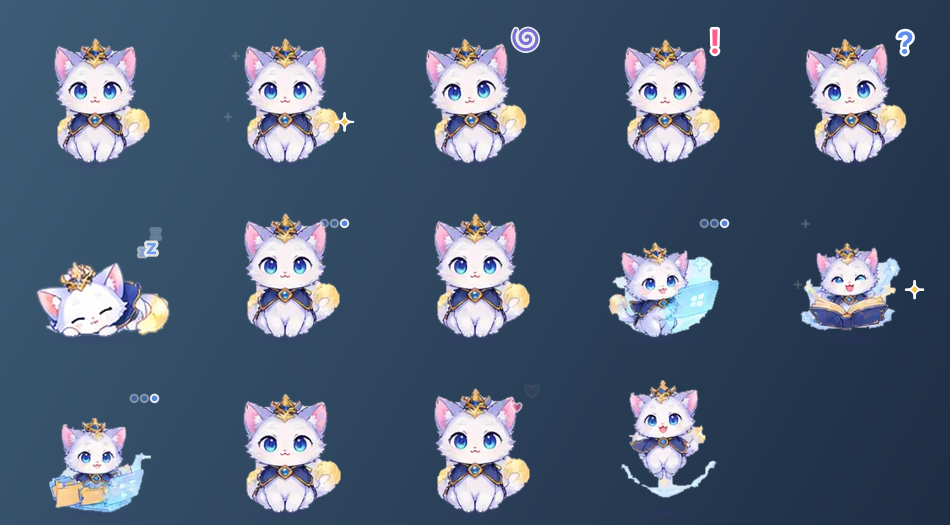
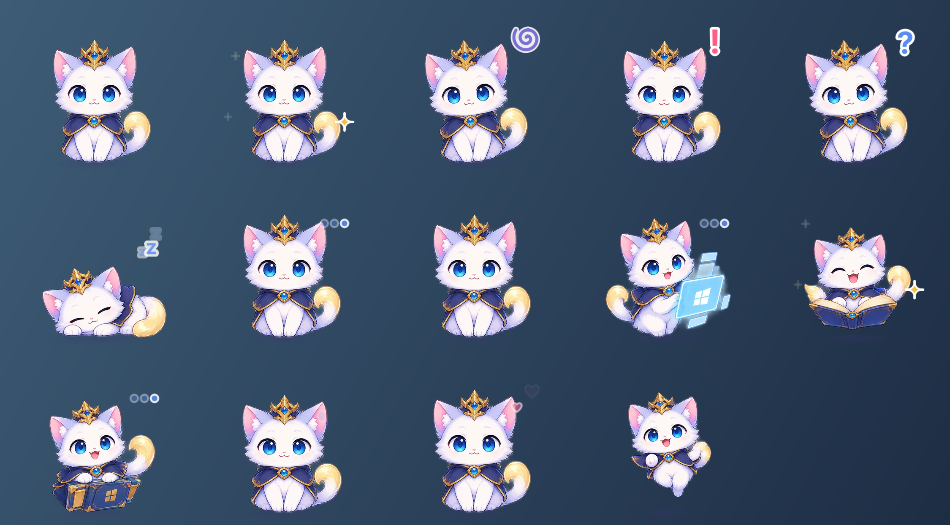
Pet: switch to the user's high-res transparent pose sheet
Six poses (front, files box, hologram search, book, sleep, float) are cut
from assets/source/pose_sheet_hd.webp. The alpha is already clean, so the
extractor no longer flood-fills backgrounds: it remaps faint alpha, drops
specks and downsizes premultiplied. Sprites are saved at 3x for sharper
HiDPI rendering; the tray icon crop is widened to keep the crown.

Claude-Session: https://claude.ai/code/session_01GCnosnBPPwFtEBANG6qMu6

diff --git a/tools/extract_sprites.py b/tools/extract_sprites.py
@@ -1,14 +1,11 @@
-"""사용자 스프라이트 시트(assets/source)에서 펫 프레임을 잘라 src/jonnyang/gui/sprites/에 저장한다.
+"""사용자 고해상도 자세 시트(assets/source/pose_sheet_hd.webp)에서 펫 그림을 잘라 src/jonnyang/gui/sprites/에 저장한다.
 
-- 표정마다 깨끗한 그림 한 장만 고른다(CELLS, POSES). 애니메이션 시트의 칸들은 다리가 빈 칸, 배경이 덜 지워진
-  칸이 섞여 있고 계속 넘기면 정신없어서, 움직임은 gui/sprite.py가 코드로 더한다.
-- animation_sheet.webp: 칸(격자) 하나 = 한 프레임. pose_sheet.webp: 자세가 흩어진 시트, 상자 좌표로 자른다
-  (알파 채널은 흐릿해서 흰 배경에 합성해서 쓴다).
-- 배경: 칸 테두리에서 시작해 배경색과 비슷한 픽셀을 채우기(flood fill)로 지운다. 고양이 외곽선이 경계가 된다.
-  자세 시트는 외곽선 바깥의 옅은 빛 번짐 띠를 몇 겹 벗긴다(peel). 가장자리는 1px 깎고 살짝 흐리게.
-- 프레임 번호 글자, 작은 얼룩은 버린다. 여러 칸을 쓰면 첫 프레임에 맞춰 위치를 맞춘다(덜덜 떨림 방지).
-- 모든 프레임은 같은 크기 캔버스(manifest.yaml의 frame)에, 발끝을 같은 높이(baseline)에 맞춰 놓는다.
-  2배 크기로 저장해서 고해상도 화면에서도 덜 뭉개지게 한다.
+- 시트 한 장에 자세 6개가 3x2로 놓여 있고 배경은 이미 투명하다(알파 채널). 칸마다 고양이 상자를 찾아 자른다.
+- 표정마다 그림 한 장만 쓴다. 움직임(숨쉬기·깡총·흔들기)과 효과(하트·반짝이·물음표)는 gui/sprite.py가 코드로 더한다.
+- 고양이 둘레의 아주 옅은 번짐(알파가 거의 0)은 지우고, 따로 떨어진 작은 얼룩도 버린다.
+- 모든 그림은 같은 크기 캔버스(manifest.yaml의 frame)에, 같은 배율로, 발끝을 같은 높이(baseline)에 맞춰 놓는다.
+  3배 크기로 저장해서 고해상도 화면에서도 선명하게 한다.
+- 예전 시트(animation_sheet.webp, pose_sheet.webp)와 concept_art.webp는 참고용 원본으로만 남겨 둔다.
 
 사용법: python tools/extract_sprites.py [--sheet 미리보기.png]
 필요: Pillow, numpy (개발용. 프로그램 실행에는 필요 없다)
@@ -23,68 +20,34 @@ from pathlib import Path
 
 import numpy as np
 import yaml
-from PIL import Image, ImageFilter
+from PIL import Image
 
 ROOT = Path(__file__).resolve().parents[1]
 SRC = ROOT / "assets" / "source"
 OUT = ROOT / "src" / "jonnyang" / "gui" / "sprites"
+SOURCE = "pose_sheet_hd.webp"
 
-OUT_SCALE = 2                    # 저장 배율 (화면 좌표 1 = 이미지 2px)
+OUT_SCALE = 3                    # 저장 배율 (화면 좌표 1 = 이미지 3px)
 FRAME_W, FRAME_H = 150, 130      # 화면 좌표 기준 캔버스
 BASELINE = 124                   # 발끝 높이
-BG_THRESHOLD = 14                # 배경색과의 최대 차이 (채널별)
-POSE_THRESHOLD = 24              # 자세 시트는 고양이 둘레에 옅은 빛 번짐이 있어서 더 넓게 지운다
-POSE_PEEL = 3                    # 자세 시트: 외곽선 바깥에 남는 옅은 띠를 몇 겹 벗길지
-PEEL_LIGHT = 200                 # 이보다 밝은(세 채널 모두) 가장자리 픽셀을 띠로 본다
+UNIT = 0.217                     # 시트 1px → 화면 좌표 (정면 자세 키가 약 96이 되게)
+ALPHA_LO, ALPHA_HI = 16, 240     # 알파를 이 구간으로 다시 펼친다 (LO 이하 번짐은 투명, HI 이상은 불투명)
+MIN_PART = 40                    # 이보다 작은 따로 떨어진 덩어리는 얼룩으로 보고 버린다
 
-# animation_sheet.webp 격자 (픽셀 좌표, 칸 테두리 선 위치)
-SHEET_COLS = [198, 345, 486, 625, 767, 907, 1049, 1191, 1333, 1527]
-SHEET_ROWS = [(9, 116), (127, 233), (242, 348), (357, 459), (467, 568), (578, 676), (685, 778), (786, 861),
-              (869, 936), (943, 1016)]
-# 표정마다 그림 한 장만 쓴다(프레임을 계속 바꾸면 정신없고, 다리가 빈 칸·배경이 덜 지워진 칸이 섞여 있었다).
-# 움직임(숨쉬기·깡총·흔들기)과 효과(하트·반짝이·물음표)는 코드(gui/sprite.py)가 더한다.
-# animation_sheet.webp에서 고르는 칸: 이름: (줄, 칸, 크기 보정)
-CELLS = {
-    "sleep": (3, 2, 1.0),       # 잠 (깨끗한 칸)
-}
-# pose_sheet.webp 상자 (위, 왼쪽, 아래, 오른쪽) 와 크기 보정
+# 시트 칸 경계 (픽셀). 자세끼리 겹치지 않는 선.
+GRID_X = [0, 520, 1036, 1536]
+GRID_Y = [0, 528, 1024]
+# 이름: (줄, 칸)
 POSES = {
-    "front": ((58, 22, 206, 138), 0.70),       # 정면: 기본 자세 (대기·기쁨·질문·알림·혼란)
-    "float": ((482, 346, 630, 470), 0.70),     # 공중부양 (끌고 다닐 때)
-    "search": ((718, 448, 838, 592), 0.70),    # 검색 중 (노트북)
-    "files": ((714, 596, 842, 720), 0.70),     # 파일 정리
-    "book": ((726, 16, 838, 142), 0.70),       # 책 열기
+    "front": (0, 0),            # 정면: 기본 자세 (대기·기쁨·질문·알림·혼란)
+    "files": (0, 1),            # 상자 정리 (파일 작업)
+    "search": (0, 2),           # 홀로그램 창 (검색 중)
+    "book": (1, 0),             # 책 열기
+    "sleep": (1, 1),            # 잠
+    "float": (1, 2),            # 공중에 뜬 자세 (끌고 다닐 때)
 }
 # 공중에 떠 있는 자세는 발끝을 바닥선보다 조금 위에 둔다
 LIFT = {"float": 6}
-
-
-def flood_background(cell: np.ndarray, thr: int) -> tuple[np.ndarray, np.ndarray, np.ndarray]:
-    """테두리에서 이어진 배경 영역(True)과 배경색, 배경색과의 차이를 돌려준다."""
-    h, w, _ = cell.shape
-    border = np.concatenate([cell[0], cell[-1], cell[:, 0], cell[:, -1]])
-    ref = np.median(border, 0)
-    diff = np.abs(cell - ref).max(2)
-    ok = diff < thr
-    seen = np.zeros((h, w), bool)
-    q: deque[tuple[int, int]] = deque()
-    for x in range(w):
-        for y in (0, h - 1):
-            if ok[y, x] and not seen[y, x]:
-                seen[y, x] = True
-                q.append((y, x))
-    for y in range(h):
-        for x in (0, w - 1):
-            if ok[y, x] and not seen[y, x]:
-                seen[y, x] = True
-                q.append((y, x))
-    while q:
-        y, x = q.popleft()
-        for ny, nx in ((y + 1, x), (y - 1, x), (y, x + 1), (y, x - 1)):
-            if 0 <= ny < h and 0 <= nx < w and ok[ny, nx] and not seen[ny, nx]:
-                seen[ny, nx] = True
-                q.append((ny, nx))
-    return seen, ref, diff
 
 
 def components(mask: np.ndarray) -> list[np.ndarray]:
@@ -111,47 +74,17 @@ def components(mask: np.ndarray) -> list[np.ndarray]:
     return out
 
 
-def cut(cell: np.ndarray, drop_bottom: int = 0, thr: int = BG_THRESHOLD, peel: int = 0) -> np.ndarray:
-    """RGB 칸 → RGBA (배경 투명). drop_bottom: 아래쪽 이만큼 안에만 있는 덩어리(프레임 번호)는 버린다.
-    peel: 바깥에서부터 밝은 픽셀(옅은 빛 번짐 띠)을 이만큼 겹 벗긴다. 진한 외곽선에서 멈춘다."""
-    h, w, _ = cell.shape
-    bg, ref, diff = flood_background(cell, thr)
-    fg = ~bg
-    keep = np.zeros_like(fg)
-    parts = [pts for pts in components(fg) if len(pts) >= 8]
-    body_bottom = max(parts, key=len)[:, 0].max() if parts else h
-    for pts in parts:
-        top = pts[:, 0].min()
-        if drop_bottom and (top >= h - drop_bottom or (top >= body_bottom - 4 and len(pts) < 200)):
-            continue                     # 프레임 번호 (고양이 발밑에 따로 떨어진 작은 글자)
-        keep[pts[:, 0], pts[:, 1]] = True
-    # 외곽선 안에 갇힌 넓은 배경(다리 사이 등)도 지운다. 흰 털(다리)까지 지우지 않게 아주 배경색에 가까운 것만.
-    for pts in components(~keep):
-        if len(pts) > 60 and diff[pts[:, 0], pts[:, 1]].mean() < 3:
-            keep[pts[:, 0], pts[:, 1]] = False
-    light = cell.min(2) > PEEL_LIGHT
-    for _ in range(peel):
-        inner = np.asarray(Image.fromarray((keep * 255).astype(np.uint8)).filter(ImageFilter.MinFilter(3))) > 0
-        keep &= ~(keep & ~inner & light)
-    if peel:                             # 벗기고 남은 가는 부스러기
-        for pts in components(keep):
-            if len(pts) < 40:
-                keep[pts[:, 0], pts[:, 1]] = False
-    # 가장자리: 바깥 1px(배경과 섞인 옅은 테두리)을 깎고 살짝 흐리게 해서 계단 모양을 없앤다.
-    # 투명한 쪽 픽셀 색은 주변 고양이 색으로 채워서, 흐린 가장자리가 하얗게 번지지 않게 한다.
-    core = Image.fromarray((keep * 255).astype(np.uint8)).filter(ImageFilter.MinFilter(3))
-    alpha = np.asarray(core.filter(ImageFilter.GaussianBlur(0.7))).astype(np.float64) / 255
-    alpha[alpha < 0.04] = 0
-    rgb = cell.astype(np.float64)
-    weight = np.asarray(core).astype(np.float64) / 255
-    blur = [np.asarray(Image.fromarray((rgb[..., i] * weight).astype(np.uint8)).filter(ImageFilter.BoxBlur(2)))
-            for i in range(3)]
-    wsum = np.asarray(Image.fromarray((weight * 255).astype(np.uint8)).filter(ImageFilter.BoxBlur(2))) / 255
-    fill = np.dstack(blur).astype(np.float64) / np.maximum(wsum, 1e-3)[..., None]
-    outside = (weight < 0.5)[..., None]
-    rgb = np.where(outside, fill, rgb)
-    rgba = np.dstack([np.clip(rgb, 0, 255), alpha * 255]).astype(np.uint8)
-    return rgba
+def clean(cell: np.ndarray) -> np.ndarray:
+    """RGBA 칸 → 옅은 번짐과 얼룩을 지운 RGBA, 고양이 상자만큼 잘라서."""
+    rgb = cell[..., :3]
+    a = cell[..., 3].astype(np.float64)
+    alpha = np.clip((a - ALPHA_LO) / (ALPHA_HI - ALPHA_LO), 0, 1)
+    for pts in components(alpha > 0):
+        if len(pts) < MIN_PART:
+            alpha[pts[:, 0], pts[:, 1]] = 0
+    ys, xs = np.nonzero(alpha > 0)
+    y0, y1, x0, x1 = ys.min(), ys.max() + 1, xs.min(), xs.max() + 1
+    return np.dstack([rgb, alpha * 255]).astype(np.uint8)[y0:y1, x0:x1]
 
 
 def bbox(alpha: np.ndarray, thr: int = 60) -> tuple[int, int, int, int]:
@@ -160,99 +93,57 @@ def bbox(alpha: np.ndarray, thr: int = 60) -> tuple[int, int, int, int]:
 
 
 def head_center_x(alpha: np.ndarray) -> float:
-    """머리(위쪽 절반)의 가로 중심. 꼬리 때문에 전체 상자 중심은 흔들린다."""
+    """머리(위쪽 절반)의 가로 중심. 꼬리·소품 때문에 전체 상자 중심은 치우친다."""
     x0, y0, x1, y1 = bbox(alpha)
     top = alpha[y0:(y0 + y1) // 2, :].astype(np.float64)
     xs = np.arange(alpha.shape[1])
     return float((top.sum(0) * xs).sum() / max(1.0, top.sum()))
 
 
-def best_shift(ref: np.ndarray, img: np.ndarray, rx: int = 8, ry: int = 6) -> tuple[int, int]:
-    """img를 (dx, dy)만큼 옮겼을 때 ref와 가장 많이 겹치는 위치."""
-    a = ref.astype(np.float64) / 255
-    b = img.astype(np.float64) / 255
-    best, arg = -1.0, (0, 0)
-    for dy in range(-ry, ry + 1):
-        for dx in range(-rx, rx + 1):
-            s = np.minimum(a, np.roll(np.roll(b, dy, 0), dx, 1)).sum()
-            if s > best:
-                best, arg = s, (dx, dy)
-    return arg
-
-
-def place(frames: list[np.ndarray], scale: float, lift: int = 0, align: bool = True) -> list[Image.Image]:
-    """같은 애니메이션의 프레임들을 맞춰서 캔버스에 놓는다."""
-    h = max(f.shape[0] for f in frames)
-    w = max(f.shape[1] for f in frames)
-    m = 10                               # 정렬할 때 밀려나도 반대편으로 감기지 않게 여백을 둔다
-    pad = [np.pad(f, ((m, h - f.shape[0] + m), (m, w - f.shape[1] + m), (0, 0))) for f in frames]
-    h, w = h + 2 * m, w + 2 * m
-    if align and len(pad) > 1:
-        moved = [pad[0]]
-        for f in pad[1:]:
-            dx, dy = best_shift(pad[0][..., 3], f[..., 3])
-            moved.append(np.roll(np.roll(f, dy, 0), dx, 1))
-        pad = moved
-    first = pad[0][..., 3]
-    cx = head_center_x(first)
-    bottom = max(bbox(f[..., 3])[3] for f in pad)
-    k = scale * OUT_SCALE
+def place(img: np.ndarray, lift: int = 0) -> Image.Image:
+    """그림을 캔버스에 놓는다: 머리 가운데를 캔버스 가운데에, 발끝을 바닥선에."""
+    cx = head_center_x(img[..., 3])
+    bottom = bbox(img[..., 3])[3]
+    k = UNIT * OUT_SCALE
+    h, w = img.shape[:2]
+    # 알파를 곱한 상태(RGBa)로 줄여야 가장자리에 투명 픽셀 색(검정·흰색)이 번지지 않는다
+    small = Image.fromarray(img, "RGBA").convert("RGBa").resize((round(w * k), round(h * k)), Image.LANCZOS)
+    small = small.convert("RGBA")
     cw, ch = FRAME_W * OUT_SCALE, FRAME_H * OUT_SCALE
-    out = []
-    for f in pad:
-        img = Image.fromarray(f, "RGBA")
-        img = img.resize((round(w * k), round(h * k)), Image.LANCZOS)
-        img = img.filter(ImageFilter.UnsharpMask(radius=1.2, percent=40, threshold=2))
-        canvas = Image.new("RGBA", (cw, ch), (0, 0, 0, 0))
-        ox = round(cw / 2 - cx * k)
-        oy = round((BASELINE - lift) * OUT_SCALE - bottom * k)
-        canvas.alpha_composite(img, (max(0, ox), max(0, oy)), (max(0, -ox), max(0, -oy)))
-        out.append(canvas)
-    return out
+    canvas = Image.new("RGBA", (cw, ch), (0, 0, 0, 0))
+    ox = round(cw / 2 - cx * k)
+    oy = round((BASELINE - lift) * OUT_SCALE - bottom * k)
+    canvas.alpha_composite(small, (max(0, ox), max(0, oy)), (max(0, -ox), max(0, -oy)))
+    return canvas
 
 
 def main() -> int:
     ap = argparse.ArgumentParser()
-    ap.add_argument("--sheet", help="모든 프레임을 한 장에 모은 미리보기 PNG 경로")
+    ap.add_argument("--sheet", help="모든 그림을 한 장에 모은 미리보기 PNG 경로")
     args = ap.parse_args()
-    anim_sheet = np.asarray(Image.open(SRC / "animation_sheet.webp").convert("RGB")).astype(np.int32)
-    pose_src = Image.open(SRC / "pose_sheet.webp").convert("RGBA")
-    flat = Image.new("RGBA", pose_src.size, (255, 255, 255, 255))
-    flat.alpha_composite(pose_src)
-    pose_sheet = np.asarray(flat.convert("RGB")).astype(np.int32)
+    sheet = np.asarray(Image.open(SRC / SOURCE).convert("RGBA"))
 
     OUT.mkdir(parents=True, exist_ok=True)
     for old in OUT.glob("*.png"):
         old.unlink()
     manifest: dict = {"frame": [FRAME_W, FRAME_H], "scale": OUT_SCALE, "baseline": BASELINE, "animations": {}}
-    strips: dict[str, list[Image.Image]] = {}
-    for name, (row, col, scale) in CELLS.items():
-        y0, y1 = SHEET_ROWS[row]
-        cell = cut(anim_sheet[y0 + 3:y1 - 2, SHEET_COLS[col] + 3:SHEET_COLS[col + 1] - 2], drop_bottom=13)
-        strips[name] = place([cell], scale, LIFT.get(name, 0), align=False)
-    for name, ((y0, x0, y1, x1), scale) in POSES.items():
-        cell = cut(pose_sheet[y0:y1, x0:x1], thr=POSE_THRESHOLD, peel=POSE_PEEL)
-        strips[name] = place([cell], scale, LIFT.get(name, 0), align=False)
-    for name, frames in strips.items():
-        fw, fh = frames[0].size
-        strip = Image.new("RGBA", (fw * len(frames), fh), (0, 0, 0, 0))
-        for i, f in enumerate(frames):
-            strip.alpha_composite(f, (i * fw, 0))
-        strip.save(OUT / f"{name}.png", optimize=True)
-        manifest["animations"][name] = len(frames)
+    images: dict[str, Image.Image] = {}
+    for name, (row, col) in POSES.items():
+        cell = sheet[GRID_Y[row]:GRID_Y[row + 1], GRID_X[col]:GRID_X[col + 1]]
+        images[name] = place(clean(cell), LIFT.get(name, 0))
+        images[name].save(OUT / f"{name}.png", optimize=True)
+        manifest["animations"][name] = 1
     header = "# tools/extract_sprites.py가 만든 파일 (직접 고치지 말고 도구를 다시 돌린다)\n"
     with open(OUT / "manifest.yaml", "w", encoding="utf-8") as f:
         f.write(header + yaml.safe_dump(manifest, allow_unicode=True, sort_keys=False))
     if args.sheet:
         cw, ch = FRAME_W * OUT_SCALE, FRAME_H * OUT_SCALE
-        rows = list(strips.items())
-        prev = Image.new("RGBA", (cw * 9, ch * len(rows)), (60, 64, 90, 255))
-        for r, (_, frames) in enumerate(rows):
-            for i, f in enumerate(frames):
-                prev.alpha_composite(f, (i * cw, r * ch))
+        prev = Image.new("RGBA", (cw * len(images), ch), (60, 64, 90, 255))
+        for i, img in enumerate(images.values()):
+            prev.alpha_composite(img, (i * cw, 0))
         prev.save(args.sheet)
     total = sum(p.stat().st_size for p in OUT.glob("*.png"))
-    print(f"{len(strips)}개 애니메이션, {sum(map(len, strips.values()))}프레임, {total / 1024:.0f}KB → {OUT}")
+    print(f"그림 {len(images)}장, {total / 1024:.0f}KB → {OUT}")
     return 0
 
 

diff --git a/tests/test_gui.py b/tests/test_gui.py
@@ -282,7 +282,7 @@ def test_online_reply_runs_in_background(qapp, make_app):
     win.attach(app.ctx, app.d)
     try:
         win.submit("오늘 날씨 어때")
-        assert win.bubble.state == "running" and win.cat.pose == "search"   # 기다리는 동안 노트북 두드리는 표정
+        assert win.bubble.state == "running" and win.cat.pose == "search"   # 기다리는 동안 홀로그램 창 보는 표정
         deadline = _time.monotonic() + 5
         while "서울" not in win.bubble.text() and _time.monotonic() < deadline:
             qapp.processEvents()

diff --git a/src/jonnyang/gui/sprite.py b/src/jonnyang/gui/sprite.py
@@ -228,7 +228,7 @@ class SpritePainter:
             return
         pix = frames[0]
         s = self.sheet.scale
-        src = QRectF(36 * s, 20 * s, 86 * s, 86 * s)        # 왕관~가슴 (프레임 캔버스 좌표)
+        src = QRectF(32 * s, 14 * s, 92 * s, 92 * s)        # 왕관~가슴 (프레임 캔버스 좌표)
         p.save()
         p.setRenderHint(QPainter.RenderHint.SmoothPixmapTransform)
         p.drawPixmap(rect, pix, src)

diff --git a/README.md b/README.md
@@ -2,13 +2,13 @@
 
 Windows 10/11용 규칙 기반 한국어 개인 비서. 고양이 캐릭터. LLM/AI API 없이 키워드·형태소·유사도 규칙으로만 명령을 알아듣는다.
 
-바탕화면 구석에 떠 있는 데스크톱 펫이다. 하얀 장모 고양이에 금색 왕관과 남색 망토를 두른 존냥이가 말풍선에 지금 하는 일(타이머 남은 시간, 다음 알람, 날씨 알아보는 중, 대답 기다리는 중)을 보여주고, 고양이 밑 입력창에 말을 걸면 된다. 사용자 컨셉 아트·스프라이트 시트에서 잘라낸 그림을 쓴다. 그림은 가만히 두고 숨쉬기·깡총·갸웃 같은 작은 움직임과 반짝이·하트·물음표 효과만 코드로 더한다. 클릭하면 몸이 통통 튀며 하트가 뜨고, 일할 때는 노트북·마법책·폴더 그림으로, 끌고 다니면 둥실 떠 있는 그림으로 바뀐다.
+바탕화면 구석에 떠 있는 데스크톱 펫이다. 하얀 장모 고양이에 금색 왕관과 남색 망토를 두른 존냥이가 말풍선에 지금 하는 일(타이머 남은 시간, 다음 알람, 날씨 알아보는 중, 대답 기다리는 중)을 보여주고, 고양이 밑 입력창에 말을 걸면 된다. 사용자 컨셉 아트·스프라이트 시트에서 잘라낸 그림을 쓴다. 그림은 가만히 두고 숨쉬기·깡총·갸웃 같은 작은 움직임과 반짝이·하트·물음표 효과만 코드로 더한다. 클릭하면 몸이 통통 튀며 하트가 뜨고, 일할 때는 홀로그램 창·마법책·상자 그림으로, 끌고 다니면 둥실 떠 있는 그림으로 바뀐다.
 
 | 응답 | 작업 중 | 확인 필요 | 알림 |
 |---|---|---|---|
 | ![](docs/images/pet-reply.png) | ![](docs/images/pet-working.png) | ![](docs/images/pet-confirm.png) | ![](docs/images/pet-alert.png) |
 
-표정 (대기·기쁨·혼란·놀람·질문·수면·생각·듣기·노트북 검색·마법책·폴더 정리·시무룩·애정·끌기): ![](docs/images/pet-poses.png)
+표정 (대기·기쁨·혼란·놀람·질문·수면·생각·듣기·홀로그램 검색·마법책·상자 정리·시무룩·애정·끌기): ![](docs/images/pet-poses.png)
 
 ## 다운로드해서 바로 실행 (Python 설치 필요 없음)
 
@@ -70,7 +70,7 @@ Windows 10/11용 규칙 기반 한국어 개인 비서. 고양이 캐릭터. LLM
 - 응답은 몇 초 뒤 사라지고 진행 중인 일이 있으면 그걸 보여준다. 할 일이 없으면 말풍선이 숨고, 고양이에 마우스를 올리면 다시 뜬다.
 - 확인 질문과 알림(타이머 끝 등)은 대답하거나 클릭할 때까지 남는다. 알림이 연달아 오면 덮어쓰지 않고 이어 붙이고, 확인 질문 중에 알림이 오면 알림을 본 뒤 질문으로 돌아온다.
 - 응답을 보여주는 시간은 글 길이에 맞춘다(4~25초). 말풍선에 마우스를 올려 두면 안 사라진다.
-- 날씨·뉴스처럼 인터넷이 필요한 건 고양이가 노트북을 두드리며 기다리고, 그동안에도 펫은 멈추지 않는다.
+- 날씨·뉴스처럼 인터넷이 필요한 건 고양이가 홀로그램 창을 들여다보며 기다리고, 그동안에도 펫은 멈추지 않는다.
 - 창을 숨겨둔 상태일 때만 트레이 알림이 뜬다(보이는 상태에선 말풍선과 겹치지 않게).
 - 10분 동안 아무것도 안 하면 존다(zZ). 클릭하거나 말을 걸면 깬다.
 - 한 번에 하나만 실행된다(리마인더가 두 번 울리지 않게). 이미 떠 있으면 안내만 뜬다.

diff --git a/CLAUDE.md b/CLAUDE.md
@@ -31,7 +31,7 @@ Windows 10/11용 규칙 기반 개인 비서 에이전트. 고양이 캐릭터. 
 
 ## 데스크톱 펫 (GUI)
 - GUI는 `src/jonnyang/gui/`(PySide6)에만 둔다. `python -m jonnyang`은 펫, `--cli`는 콘솔. 두 화면 모두 같은 `Dispatcher`를 쓴다.
-- 고양이는 사용자 스프라이트 그림(`gui/sprites/*.png`, `gui/sprite.py`)으로 그린다. 그림은 `assets/source/`의 원본 시트에서 `tools/extract_sprites.py`로 만든다(PNG를 손으로 고치지 않는다). 표정 → 그림·움직임·효과는 `persona.yaml` `sprites`.
+- 고양이는 사용자 스프라이트 그림(`gui/sprites/*.png`, `gui/sprite.py`)으로 그린다. 그림은 `assets/source/pose_sheet_hd.webp`(배경 투명 고해상도 자세 시트)에서 `tools/extract_sprites.py`로 만든다(PNG를 손으로 고치지 않는다). 표정 → 그림·움직임·효과는 `persona.yaml` `sprites`.
 - 그림은 표정마다 한 장으로 가만히 둔다(프레임을 계속 넘기지 않는다). 움직임(숨쉬기·깡총·흔들기·갸웃)과 효과(반짝이·하트·물음표)는 코드로. 클릭은 그림을 바꾸지 않고 몸을 눌렀다 펴는 크기 변화 + 하트.
 - 그림이 없거나 `sprites.enabled: false`면 `gui/painter.py`의 도형 고양이로 그린다(같은 `paint(p, rect, CatFrame)`). 디자인은 사용자 컨셉 아트 기준(하얀 장모, 파란 눈, 분홍 귀, 금색 왕관+파란 보석, 남색 망토+금테+브로치, 끝이 금빛인 꼬리). 색(`appearance`), 응답 키 → 표정 규칙(`poses`), 펫 문구(`ui`)는 `persona.yaml`에 둔다.
 - 새 표정을 만들면 `sprites.poses`에도 그림을 연결한다(`tests/test_gui.py`가 모든 표정에 그림이 있는지 검사).

diff --git a/docs/PLAN.md b/docs/PLAN.md
@@ -386,3 +386,10 @@ dev = ["pytest", "ruff"]
   - 대기·듣기·기쁨·애정·알림·질문·혼란·시무룩·생각은 같은 정면 그림에 코드 움직임(숨쉬기, 깡총, 흔들기, 갸웃, 움츠림)과 효과(반짝이, 하트, ! ? 소용돌이, 땀방울, 생각 점, z)만 다르게 준다.
   - 클릭(쓰다듬기)은 표정을 바꾸지 않고 0.6초 동안 몸을 옆으로 눌렀다 위로 펴는 크기 변화 + 하트 두 개.
   - 가만히 있을 때 가끔 윙크·하품하던 그림 바꾸기는 없앴다.
+
+## 고해상도 그림으로 교체 (2026-10-25)
+- 요청: 사용자가 해상도를 올린 자세 시트(1536x1024, 자세 6개 3x2, 배경 투명)를 줬다. 그림만 바꾼다.
+- 원본: `assets/source/pose_sheet_hd.webp`. 예전 시트(애니메이션·자세)와 컨셉 아트는 참고용으로만 남긴다.
+- `tools/extract_sprites.py`를 단순하게 다시 썼다: 알파가 이미 깨끗해서 배경 지우기(채우기·띠 벗기기)가 필요 없다. 칸마다 알파 16~240을 0~1로 다시 펼쳐 옅은 번짐을 지우고, 40px 미만 얼룩을 버리고, 알파를 곱한 상태로 줄여서(가장자리 색 번짐 방지) 캔버스에 놓는다.
+- 자세 연결: 정면 → front, 상자 → files, 홀로그램 창 → search, 책 → book, 잠 → sleep, 공중 → float. 표정 → 그림·움직임·효과 규칙은 그대로.
+- 모든 자세를 같은 배율로(정면 키 약 96), 저장 배율 2 → 3(고해상도 화면에서 선명하게). 6장 약 600KB.
